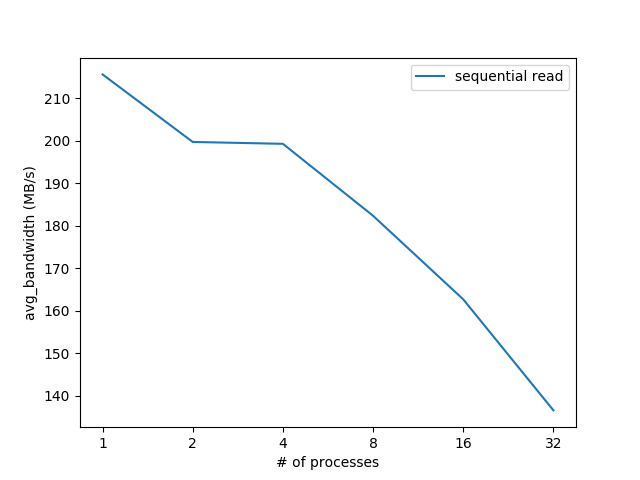
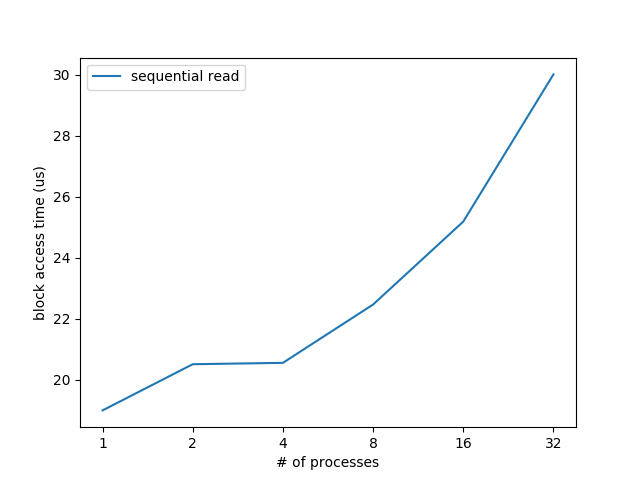
update fs stat

diff --git a/statistics/fs/fs.py b/statistics/fs/fs.py
@@ -13,21 +13,29 @@ def file_cache():
     plt.xticks(np.arange(size), [1 << (i + 4) for i in np.arange(size)])
     plt.ylabel('bandwidth (MB/s)')
     sns.lineplot(x=np.arange(size), y=data, label="sequential read")
+    plt.axvline(x=1, color='#BCBBBB', linestyle='--')
+    plt.text(0.7, 400, 'L1 Cache Size', rotation=90)
+    plt.axvline(x=4, color='#000F1C', linestyle='--')
+    plt.text(3.7, 400, 'L2 Cache Size', rotation=90)
     fig.savefig(f'{FILENAME}.png')
     # plt.show()
 
 
 def file_read():
     FILENAME = 'file_read'
-    data = list(map(float, open(FILENAME, 'r').readlines()))
+    data = [1 / d for d in map(float, open(FILENAME, 'r').readlines())]
 
     fig = plt.figure()
     size = len(data) // 2
     plt.xlabel('file size (KB)')
     plt.xticks(np.arange(size), [1 << (i + 4) for i in np.arange(size)])
-    plt.ylabel('bandwidth (4kB_block/us)')
+    plt.ylabel('time (us)')
     sns.lineplot(x=np.arange(size), y=data[:size], label="sequential read")
     sns.lineplot(x=np.arange(size), y=data[size:], label="random read")
+    plt.axvline(x=1, color='#BCBBBB', linestyle='--')
+    plt.text(0.7, 40, 'L1 Cache Size', rotation=90)
+    plt.axvline(x=4, color='#000F1C', linestyle='--')
+    plt.text(3.7, 40, 'L2 Cache Size', rotation=90)
     fig.savefig(f'{FILENAME}.png')
     # plt.show()
 
@@ -39,14 +47,14 @@ def file_content():
     i = 1
     base = 0
     while i < 64:
-        ydata.append(np.mean(data[base: base + i]))
+        ydata.append(1 / (np.mean(data[base: base + i]) / 4096))
         base += i
         i <<= 1
     fig = plt.figure()
     size = len(ydata)
     plt.xlabel('# of processes')
     plt.xticks(np.arange(size), [1 << i for i in np.arange(size)])
-    plt.ylabel('avg_bandwidth (MB/s)')
+    plt.ylabel('block access time (us)')
     sns.lineplot(x=np.arange(size), y=ydata, label="sequential read")
     fig.savefig(f'{FILENAME}.png')
 
